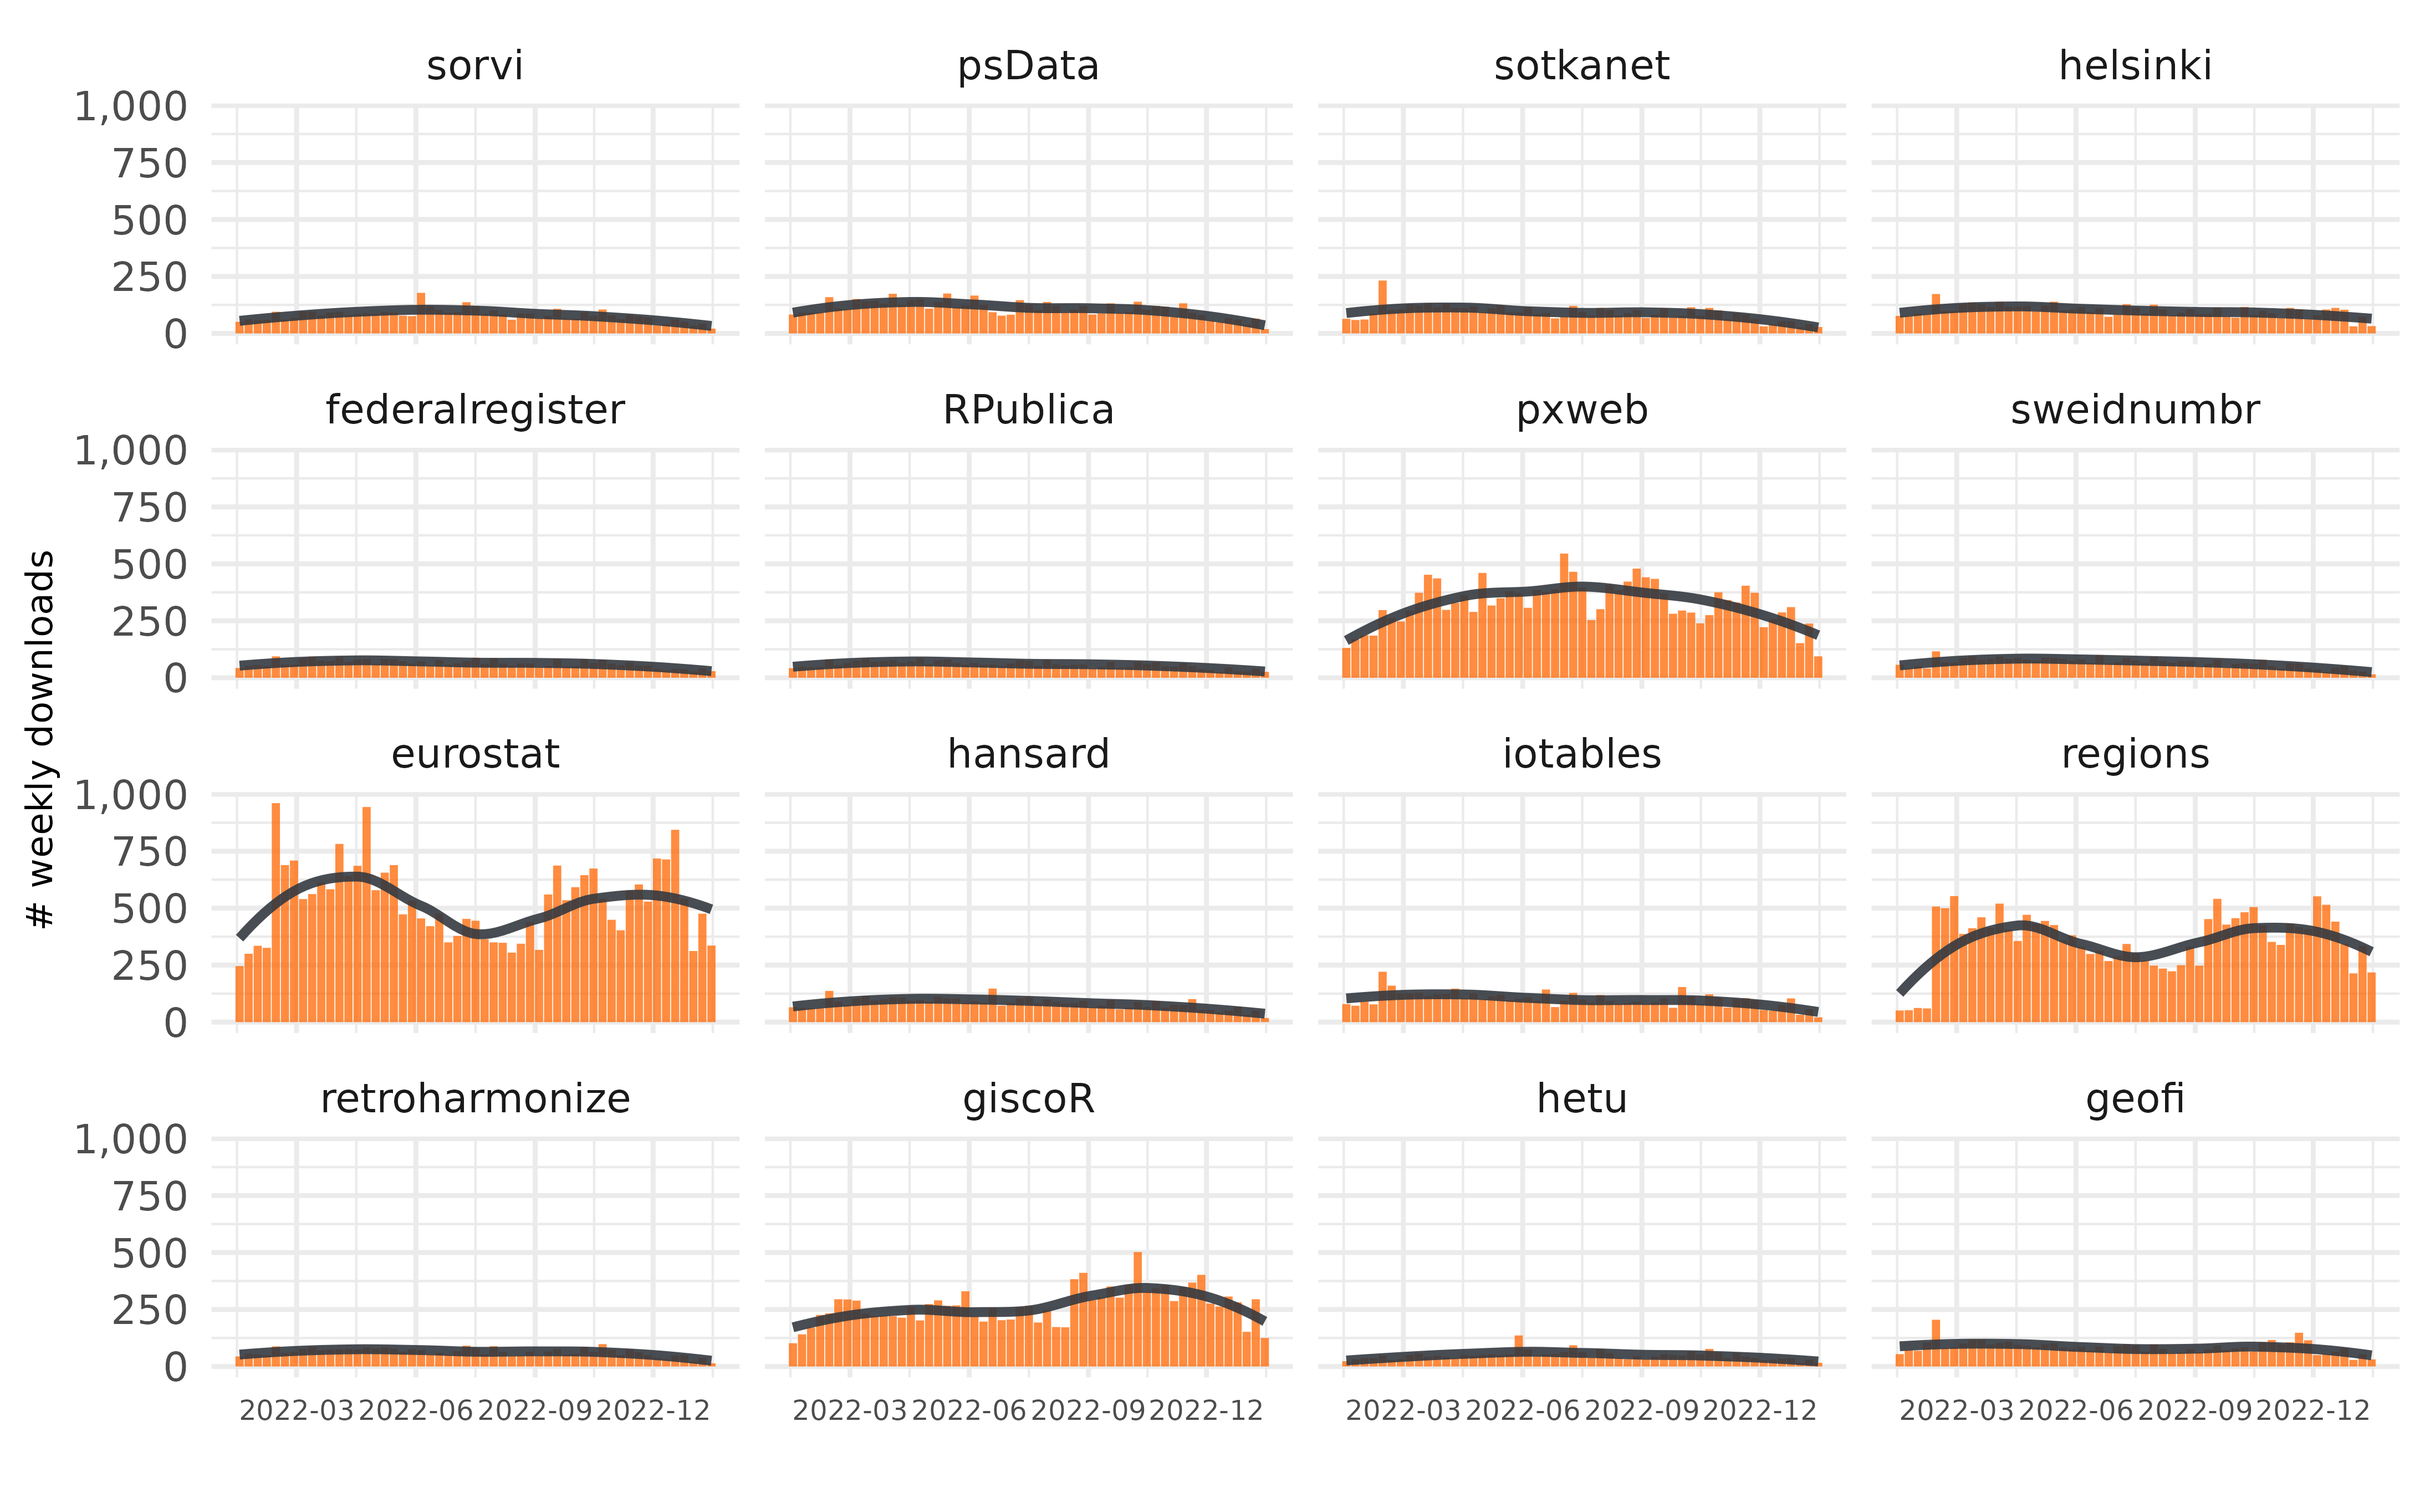
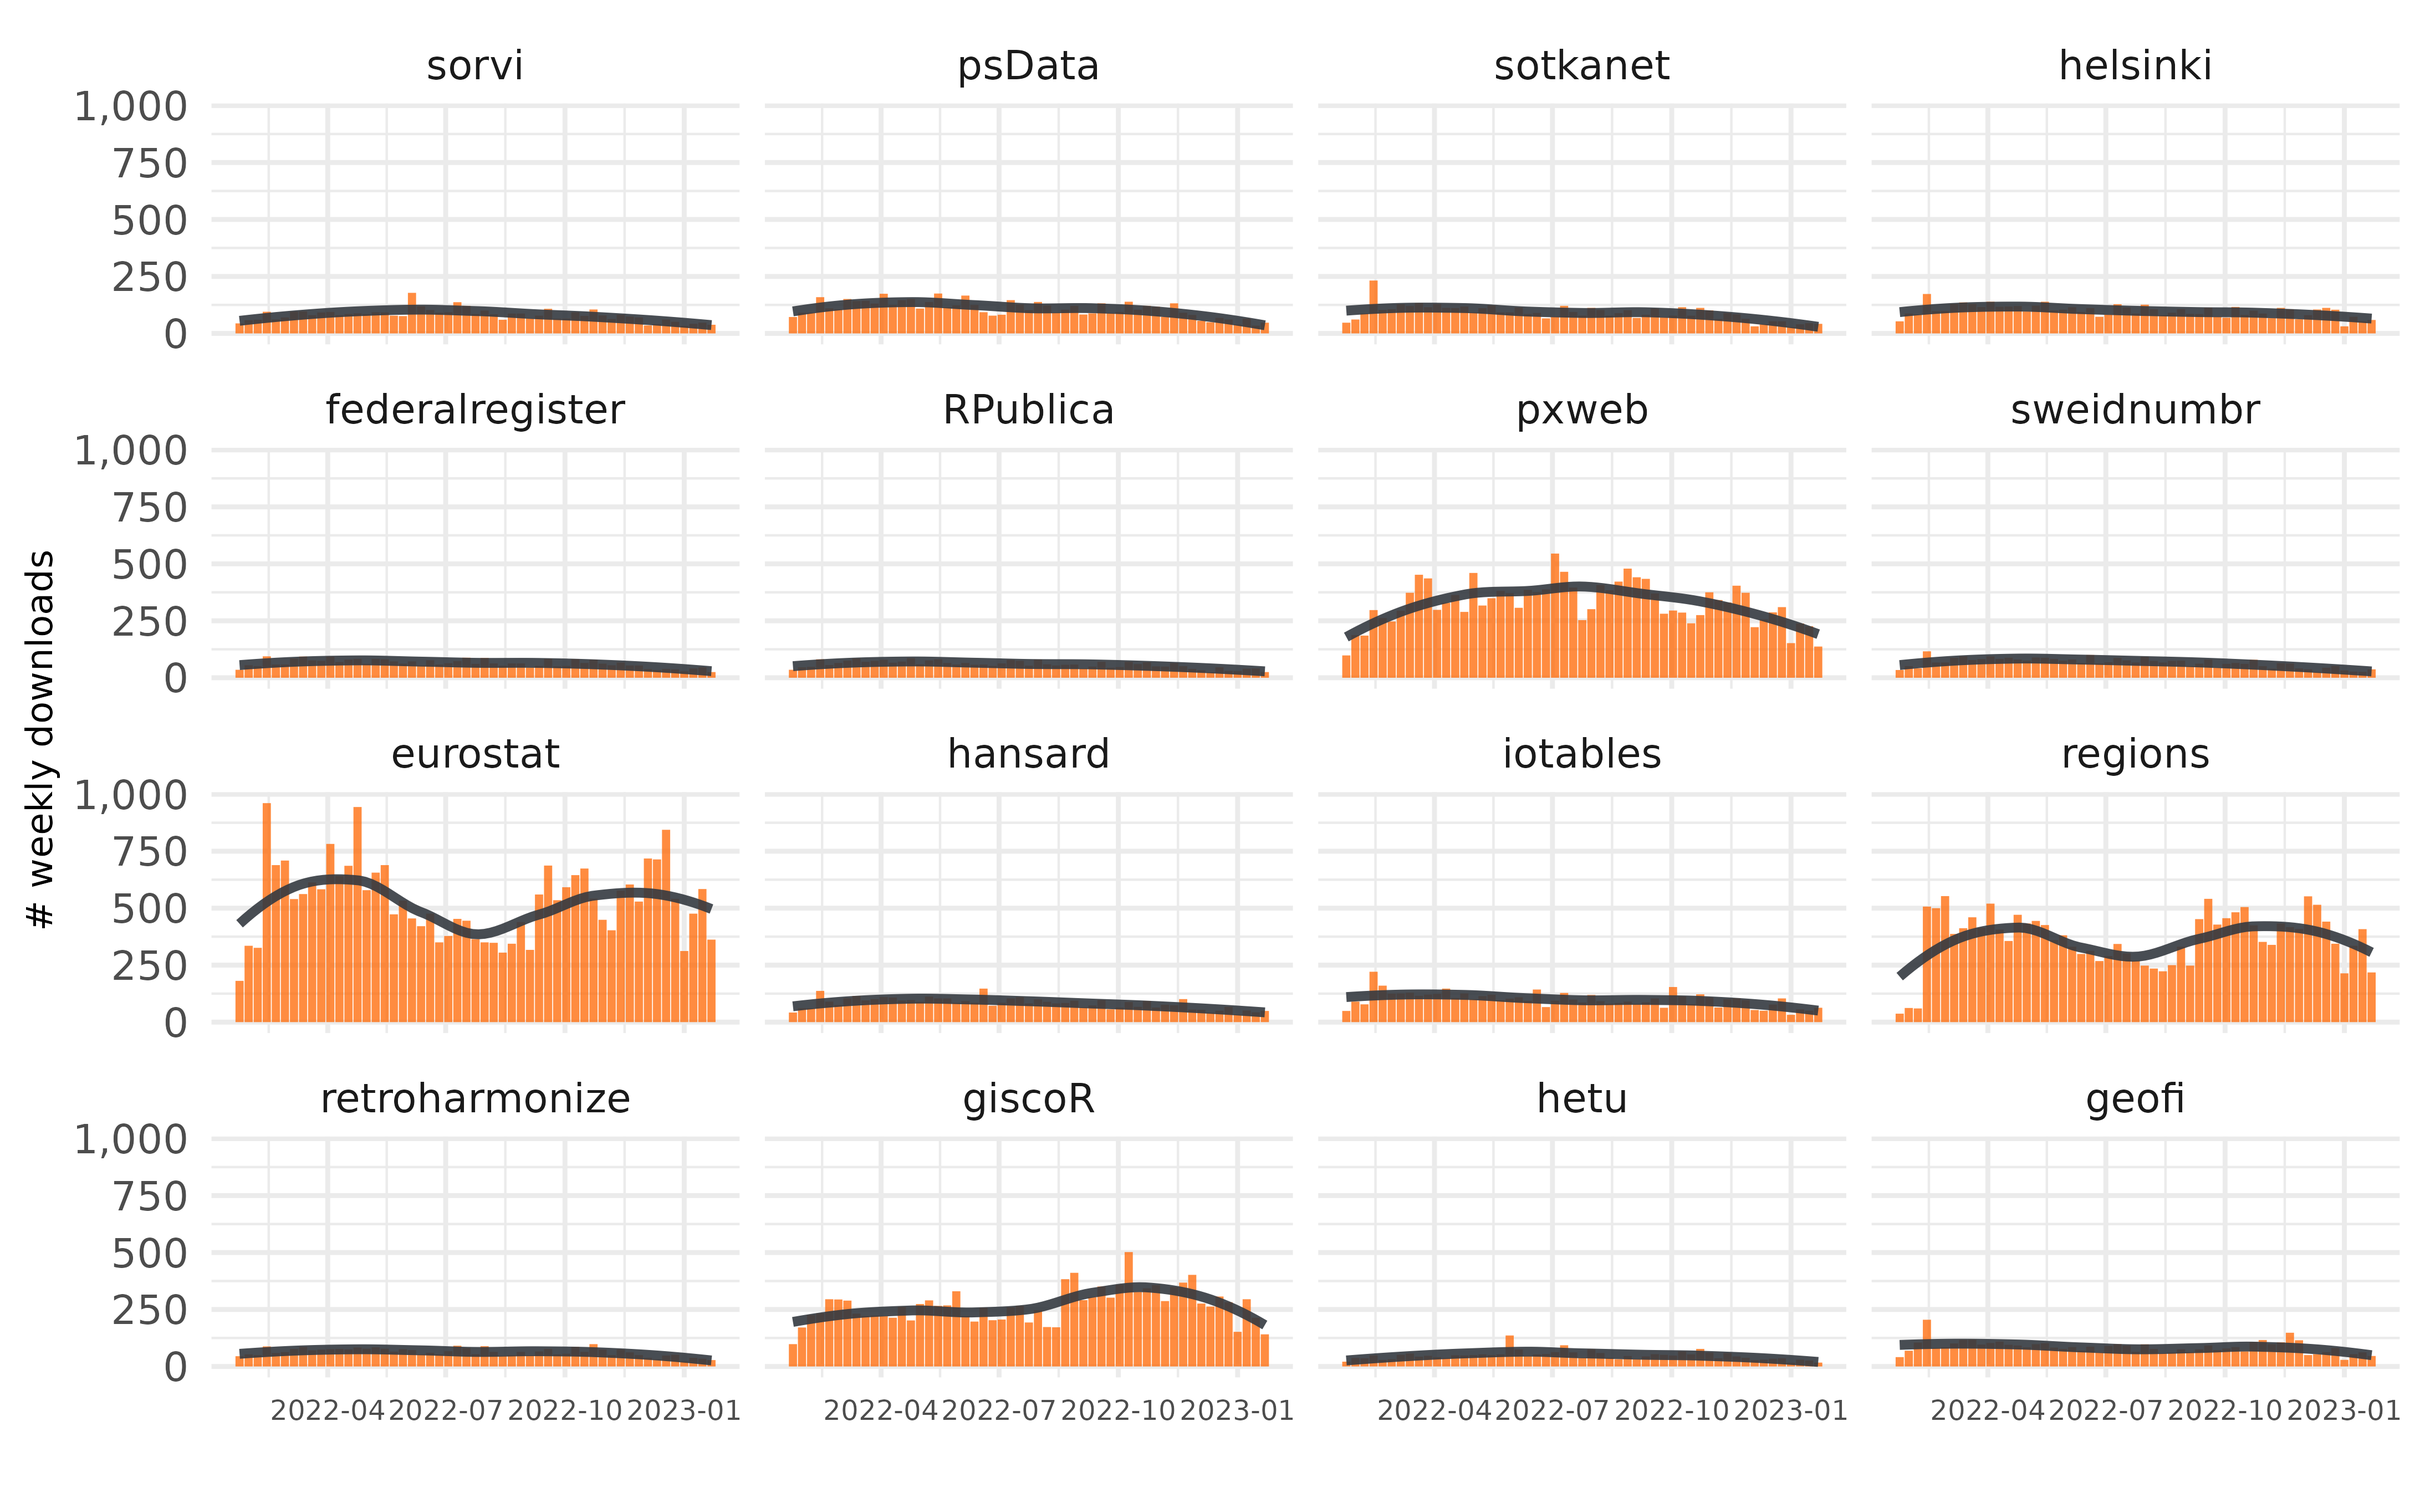
Built site for rogtemplate: 0.0.2.9000@305d9bb

diff --git a/articles/downloads.html b/articles/downloads.html
@@ -94,7 +94,7 @@
 
     
     
-<p><em>Updated: 12 Jan 2023</em></p>
+<p><em>Updated: 19 Jan 2023</em></p>
 <p>Downloads of rOpenGov packages from CRAN.</p>
 <div class="section level2">
 <h2 id="downloads">Downloads<a class="anchor" aria-label="anchor" href="#downloads"></a>
@@ -110,7 +110,7 @@
 <h2 id="data">Data<a class="anchor" aria-label="anchor" href="#data"></a>
 </h2>
 <div class="reactable html-widget html-fill-item-overflow-hidden html-fill-item" id="station-table" style="width:auto;height:auto;"></div>
-<script type="application/json" data-for="station-table">{"x":{"tag":{"name":"Reactable","attribs":{"data":{"package":["geofi","hetu","giscoR","retroharmonize","regions","iotables","hansard","eurostat","sweidnumbr","pxweb","RPublica","federalregister","helsinki","sotkanet","psData","sorvi"],"on CRAN":["2021-02-20","2020-10-15","2020-10-05","2020-09-21","2020-06-04","2018-01-30","2016-10-31","2015-03-20","2014-09-05","2014-09-03","2014-05-09","2014-05-08","2014-04-13","2014-04-06","2014-02-23","2013-09-30"],"avg daily downloads":[14.9,8.2,33.1,11.3,28.4,16.2,17.7,60.9,11.5,22.1,10.2,11.3,13.1,11.4,12.8,12],"last day":[18,4,32,5,52,6,5,85,4,22,17,20,17,16,4,6],"last week":[58,31,256,35,379,49,43,578,29,166,44,48,69,47,44,46],"last month":[250,128,1139,168,1487,285,215,2393,165,1067,168,170,340,195,250,200],"last year":[4541,2542,14186,3358,19063,5308,4384,28030,3520,17302,3070,3345,5267,4779,5750,4247]},"columns":[{"id":"package","name":"package","type":"character"},{"id":"on CRAN","name":"on CRAN","type":"Date"},{"id":"avg daily downloads","name":"avg daily downloads","type":"numeric"},{"id":"last day","name":"last day","type":"numeric"},{"id":"last week","name":"last week","type":"numeric"},{"id":"last month","name":"last month","type":"numeric"},{"id":"last year","name":"last year","type":"numeric"}],"filterable":true,"searchable":true,"defaultPageSize":16,"showPageSizeOptions":true,"paginationType":"jump","striped":true,"elementId":"station-table","dataKey":"4dadc38653f9100cf1c45748fe45b9bb"},"children":[]},"class":"reactR_markup"},"evals":[],"jsHooks":[]}</script>
+<script type="application/json" data-for="station-table">{"x":{"tag":{"name":"Reactable","attribs":{"data":{"package":["geofi","hetu","giscoR","retroharmonize","regions","iotables","hansard","eurostat","sweidnumbr","pxweb","RPublica","federalregister","helsinki","sotkanet","psData","sorvi"],"on CRAN":["2021-02-20","2020-10-15","2020-10-05","2020-09-21","2020-06-04","2018-01-30","2016-10-31","2015-03-20","2014-09-05","2014-09-03","2014-05-09","2014-05-08","2014-04-13","2014-04-06","2014-02-23","2013-09-30"],"avg daily downloads":[14.9,8.1,33.1,11.3,28.7,16.2,17.6,61,11.5,22.1,10.2,11.3,13.1,11.4,12.8,12],"last day":[26,12,64,22,91,49,38,185,30,87,15,15,36,25,26,27],"last week":[77,27,230,48,408,92,74,610,48,269,40,42,80,59,62,64],"last month":[269,124,1068,169,1478,302,242,2231,171,1052,161,176,317,205,242,208],"last year":[4534,2535,14271,3351,19405,5298,4373,28275,3503,17369,3056,3327,5246,4762,5710,4242]},"columns":[{"id":"package","name":"package","type":"character"},{"id":"on CRAN","name":"on CRAN","type":"Date"},{"id":"avg daily downloads","name":"avg daily downloads","type":"numeric"},{"id":"last day","name":"last day","type":"numeric"},{"id":"last week","name":"last week","type":"numeric"},{"id":"last month","name":"last month","type":"numeric"},{"id":"last year","name":"last year","type":"numeric"}],"filterable":true,"searchable":true,"defaultPageSize":16,"showPageSizeOptions":true,"paginationType":"jump","striped":true,"elementId":"station-table","dataKey":"80c0bea3001d19a61f63932758ff2e49"},"children":[]},"class":"reactR_markup"},"evals":[],"jsHooks":[]}</script>
 </div>
   </main><aside class="col-md-3"><nav id="toc"><h2>On this page</h2>
     </nav></aside>

diff --git a/reference/rog_logo.html b/reference/rog_logo.html
@@ -121,7 +121,7 @@ would run <code><a href="https://usethis.r-lib.org/reference/use_logo.html" clas
 <span class="r-in"><span><span class="va">tmp</span> <span class="op">&lt;-</span> <span class="fu"><a href="https://rdrr.io/r/base/tempfile.html" class="external-link">tempfile</a></span><span class="op">(</span>fileext <span class="op">=</span> <span class="st">".png"</span><span class="op">)</span></span></span>
 <span class="r-in"><span><span class="fu">rog_logo</span><span class="op">(</span><span class="st">"test a package"</span>, <span class="va">tmp</span>, overwrite <span class="op">=</span> <span class="cn">FALSE</span>, favicons <span class="op">=</span> <span class="cn">FALSE</span><span class="op">)</span></span></span>
 <span class="r-msg co"><span class="r-pr">#&gt;</span> B612 Mono font loaded</span>
-<span class="r-msg co"><span class="r-pr">#&gt;</span> Logo created on /tmp/RtmpKvMdpo/file1ba87e190181.png</span>
+<span class="r-msg co"><span class="r-pr">#&gt;</span> Logo created on /tmp/RtmpUavKjE/file24ca1ac98750.png</span>
 <span class="r-in"><span></span></span>
 <span class="r-in"><span><span class="co"># Display</span></span></span>
 <span class="r-in"><span><span class="va">logo</span> <span class="op">&lt;-</span> <span class="fu">magick</span><span class="fu">::</span><span class="fu"><a href="https://docs.ropensci.org/magick/reference/editing.html" class="external-link">image_read</a></span><span class="op">(</span><span class="va">tmp</span><span class="op">)</span></span></span>
